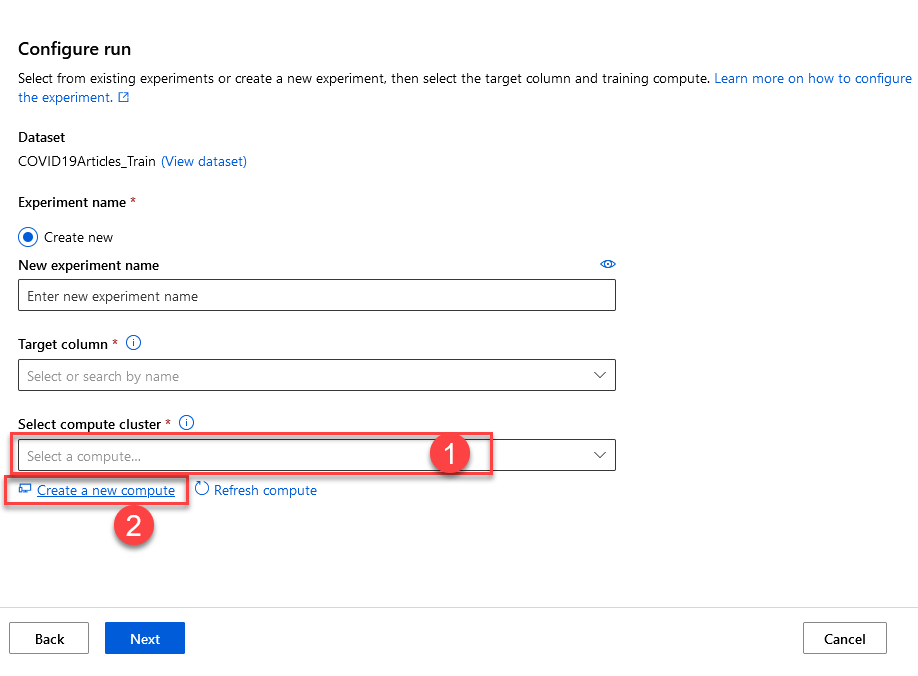
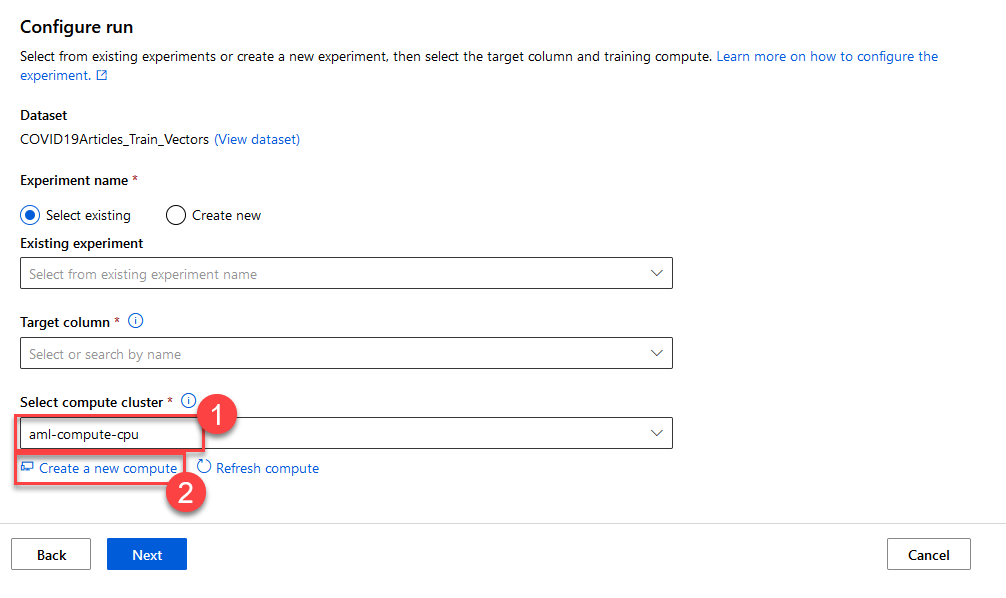
Improving Vector Dataset Naming.

Changed region(s): [[0.0, 0.2709, 1.0, 0.9933], [0.0, 0.0301, 1.0, 0.1505], [0.0, 0.1806, 0.305, 0.2709]]

diff --git a/01-aml-model-training/README.md b/01-aml-model-training/README.md
@@ -81,13 +81,15 @@ Upload each file by selecting the `Upload` **(1)** button from the top right cor
 
     ![Automated ML section is open. + New Automated ML run button is highlighted.](media/new-automated-ml-run.png)
 
-2. In the `Create a new Automated ML run` wizard pick `COVID19Articles_Train_IgnoredColumns` **(1)** as your dataset and select `Next` **(2)** to proceed.
+2. In the `Create a new Automated ML run` wizard pick `COVID19Articles_Train_Vectors` **(1)** as your dataset and select `Next` **(2)** to proceed.
 
-    ![COVID19Articles_Train_IgnoredColumns dataset is selected. Next button is highlighted.](media/automl-selected-dataset.png)
+    ![COVID19Articles_Train_Vectors dataset is selected. Next button is highlighted.](media/automl-selected-dataset.png)
 
-3. On the `Configure run` step select `aml-compute-cpu` **(1)** from the list of clusters. If the list is empty select `Create a new compute` **(2)** link.
+3. On the `Configure run` step select `aml-compute-cpu` **(1)** from the list of clusters. If the list is empty select `Create a new compute` **(2)** link. 
 
     ![Select compute cluster dropdown list and create a new compute link are highlighted.](media/automl-select-compute-cluster.png)
+
+    > **Note:** If you already have `aml-compute-cpu` cluster provisioned, feel free to skip to step 6. 
 
 4. On the `Create compute cluster` screen set the values listed below:
 
